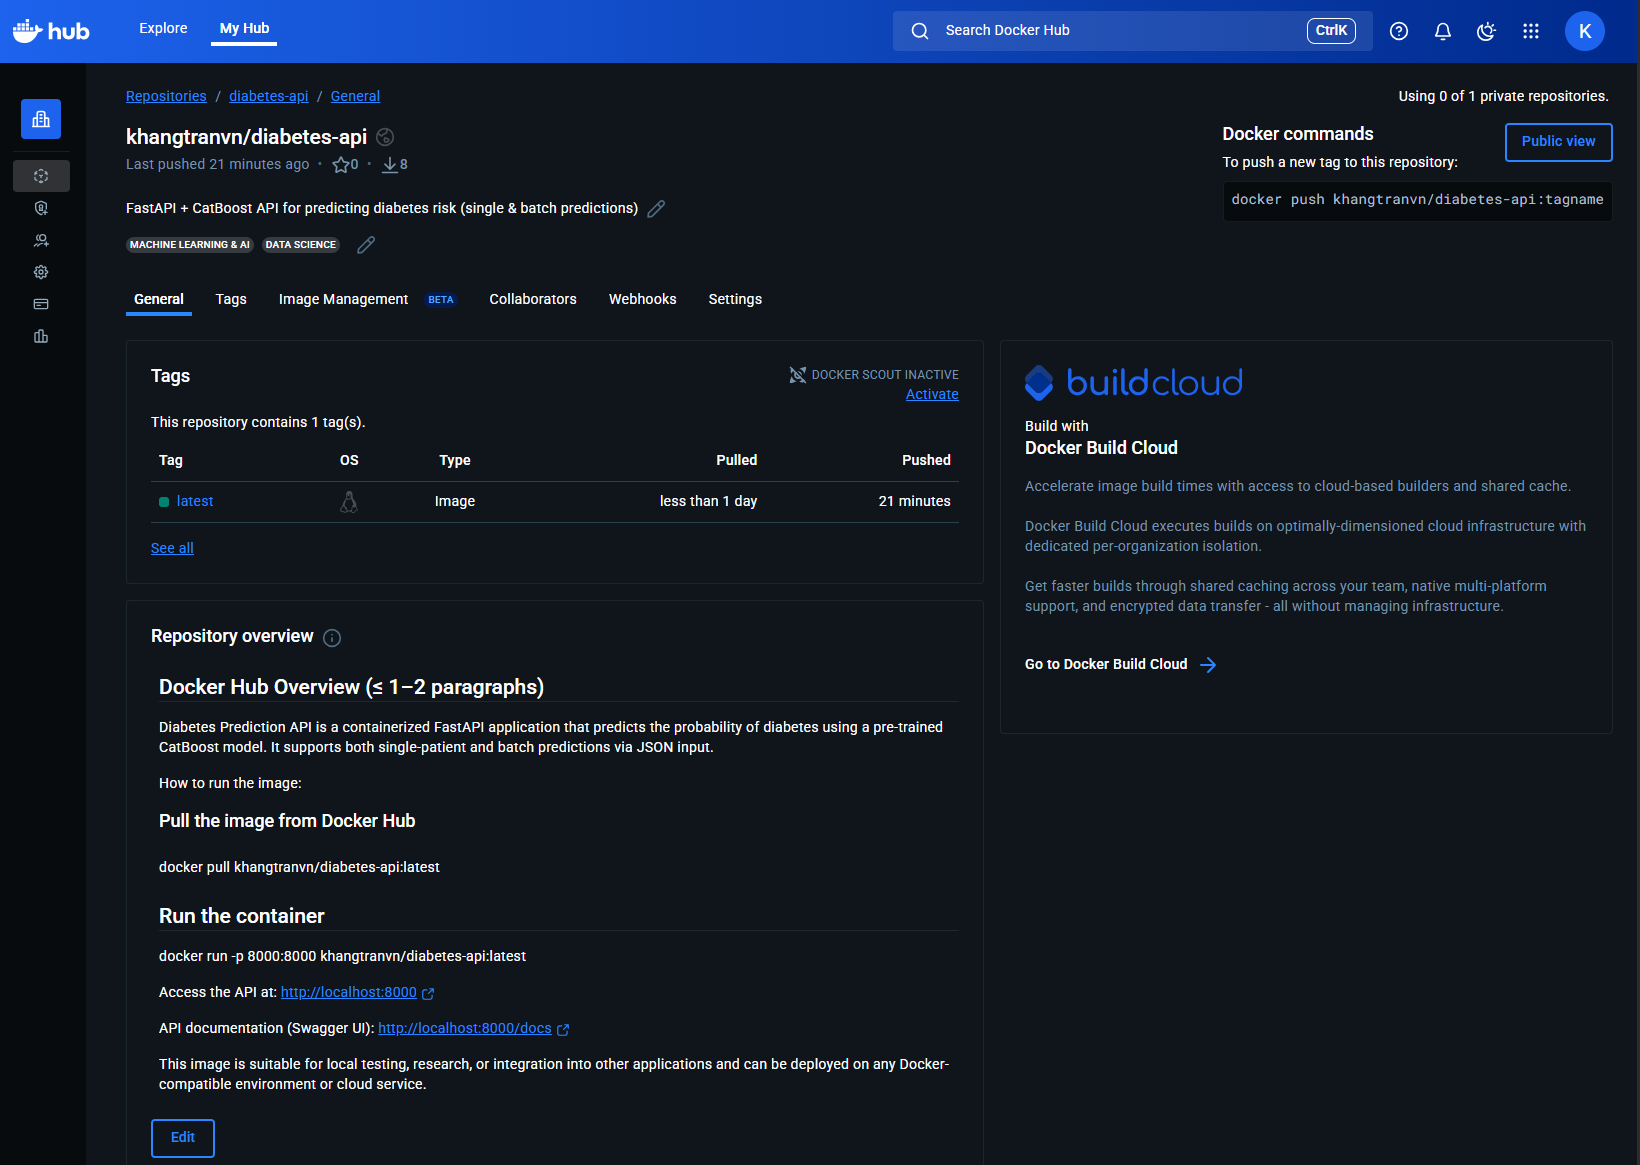
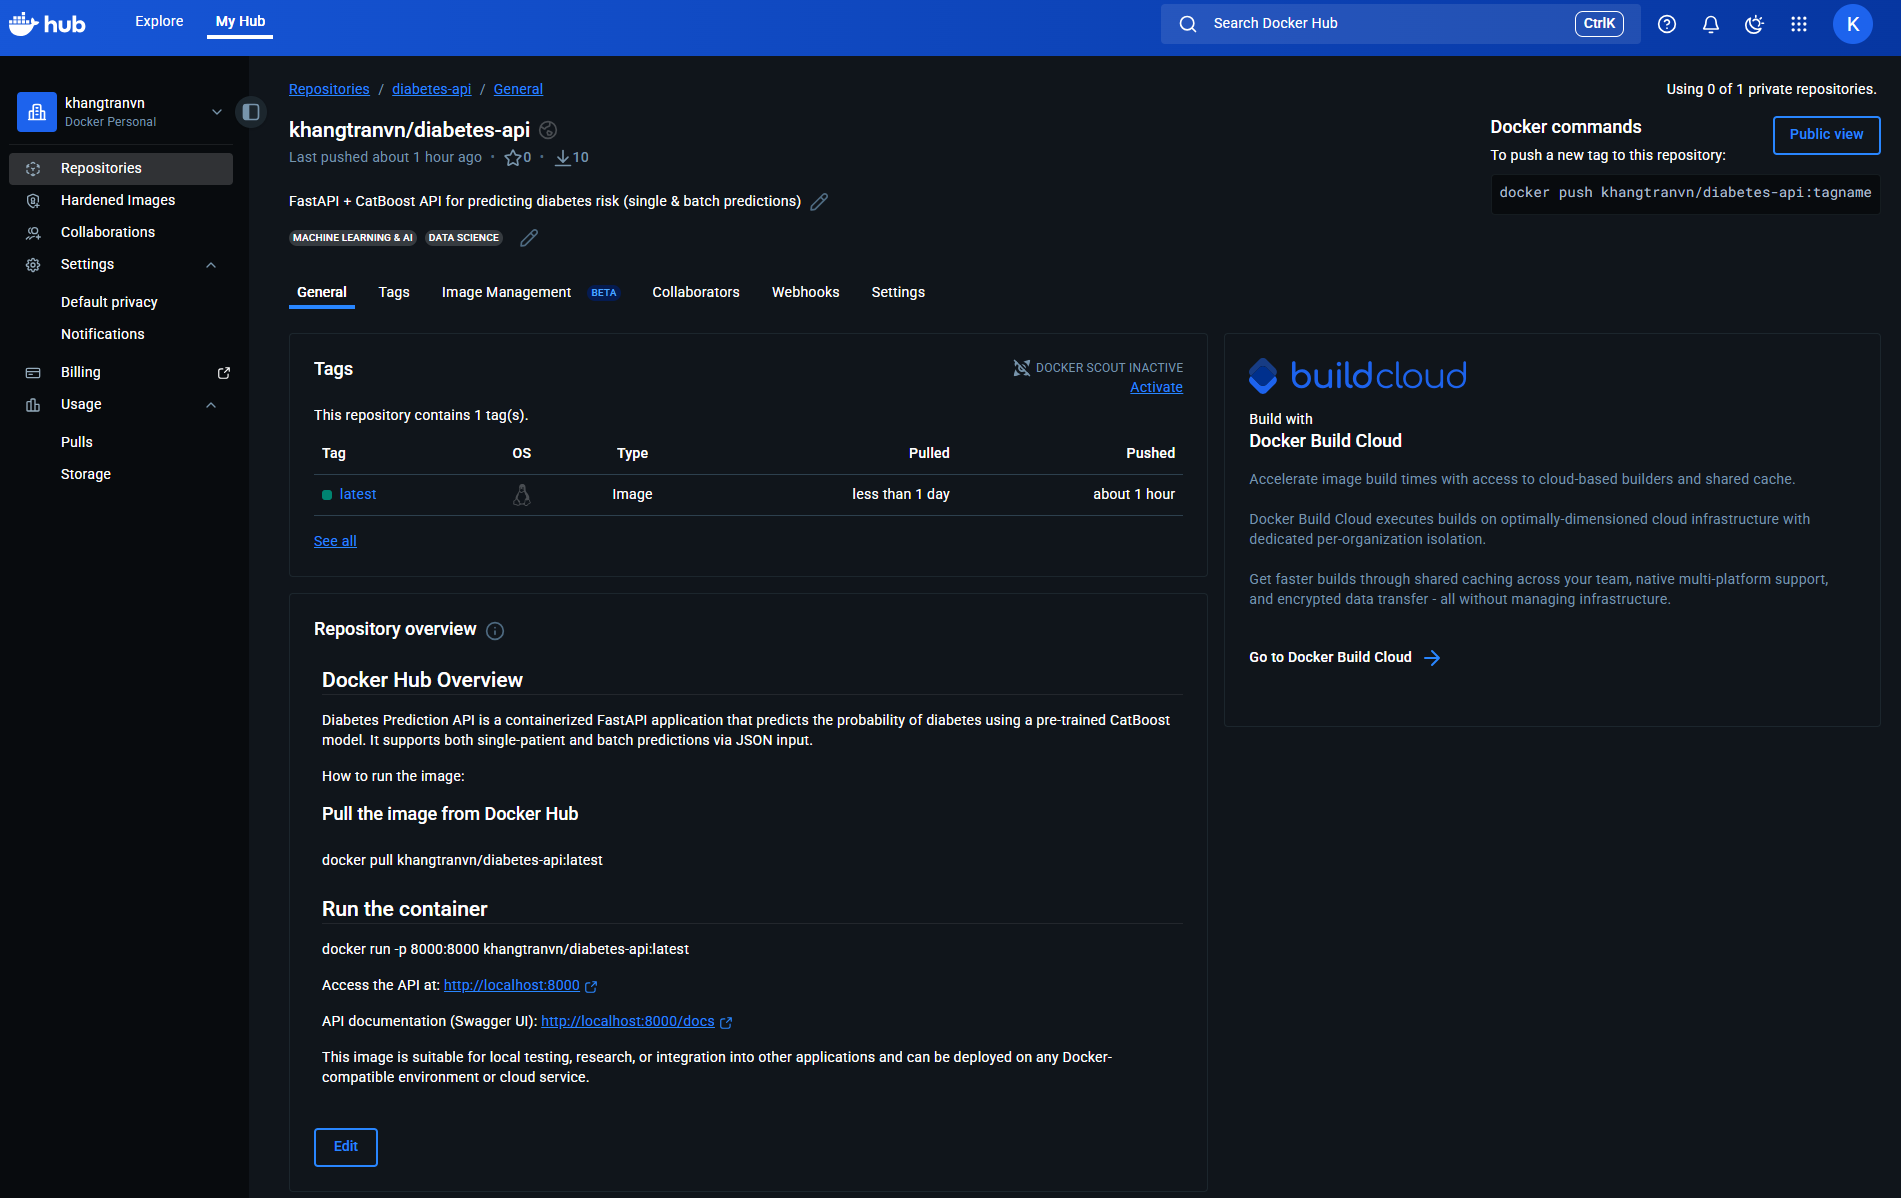
Afternoon readme

diff --git a/README.md b/README.md
@@ -71,7 +71,8 @@ Column Description:
 
 ## Model Training vs Compare performance
 I trained 3 models: XGBoost, LightGBM vs Catboost.
-I use Optuna for hyperparameter tuning, please refer to Notebook 3_Optuna_Hyperparameter_tuning.ipynb
+I use Optuna for hyperparameter tuning, please refer to [Optuna_Hyperparameter_tuning](https://github.com/Khangtran94/Diabetes-Prediction/blob/main/Notebooks/3_Optuna_Hyperparameter_tuning.ipynb).
+
 
 1. Confusion Matrix
 ![alt text](Images/Confusion_Matrix.png)
